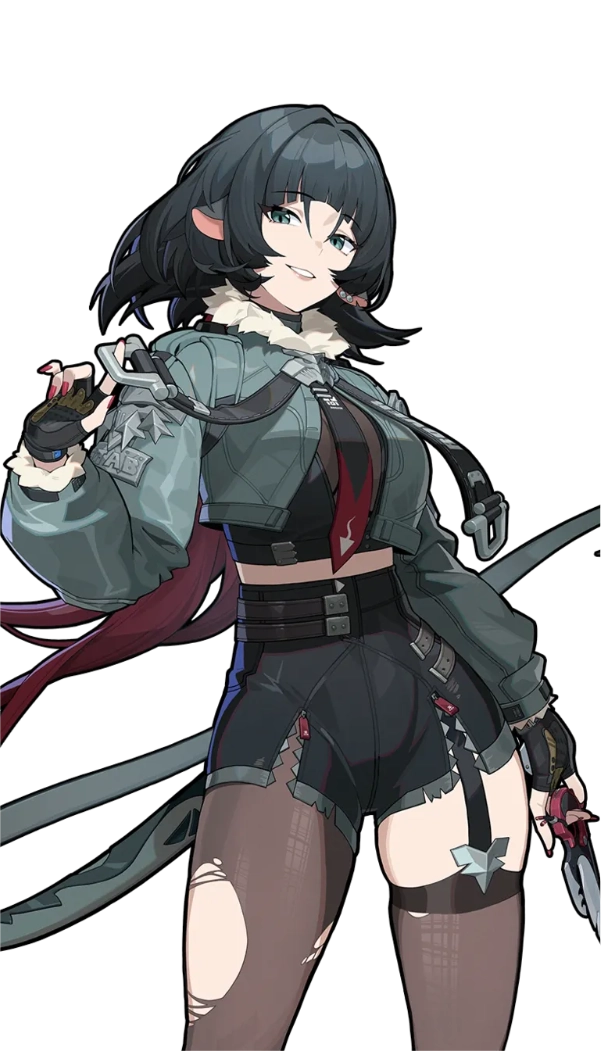
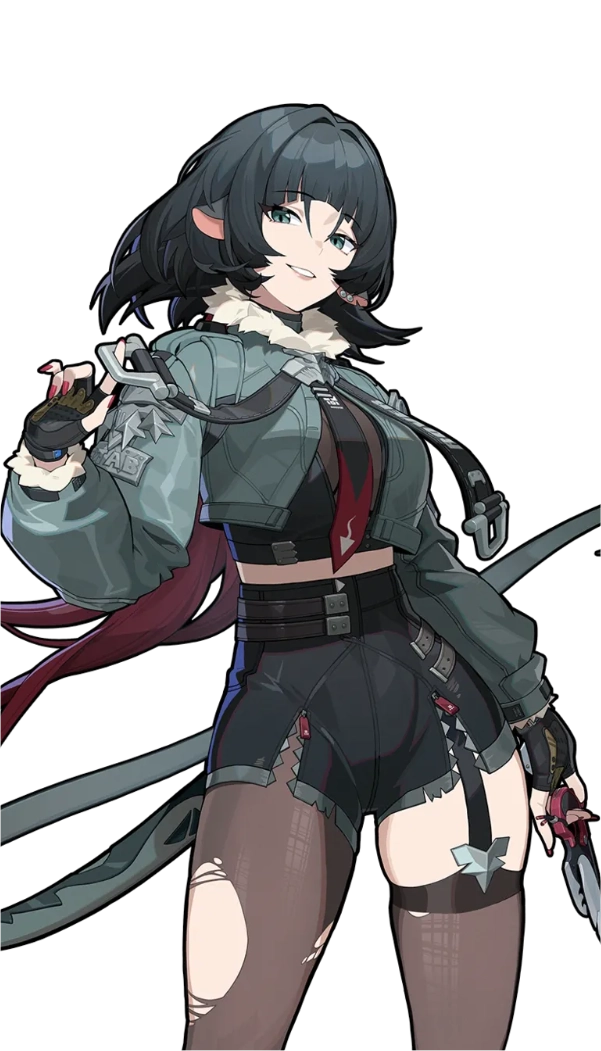
png to webp final conversion

diff --git a/src/components/events-widget/event-single.svelte b/src/components/events-widget/event-single.svelte
@@ -11,7 +11,7 @@
 			? dayjs().to(dayjs(eventDetails.startDate))
 			: dayjs().to(dayjs(eventDetails.endDate))
 
-	const bannerPath = `../assets/characters/${eventDetails.game}/${eventDetails.image}.${eventDetails.game == 'genshin' ? 'webp' : 'png'}`
+	const bannerPath = `../assets/characters/${eventDetails.game}/${eventDetails.image}.webp`
 	const bannerImage =
 		images[eventDetails.game].bannerCards[bannerPath] != undefined
 			? images[eventDetails.game].bannerCards[bannerPath]
